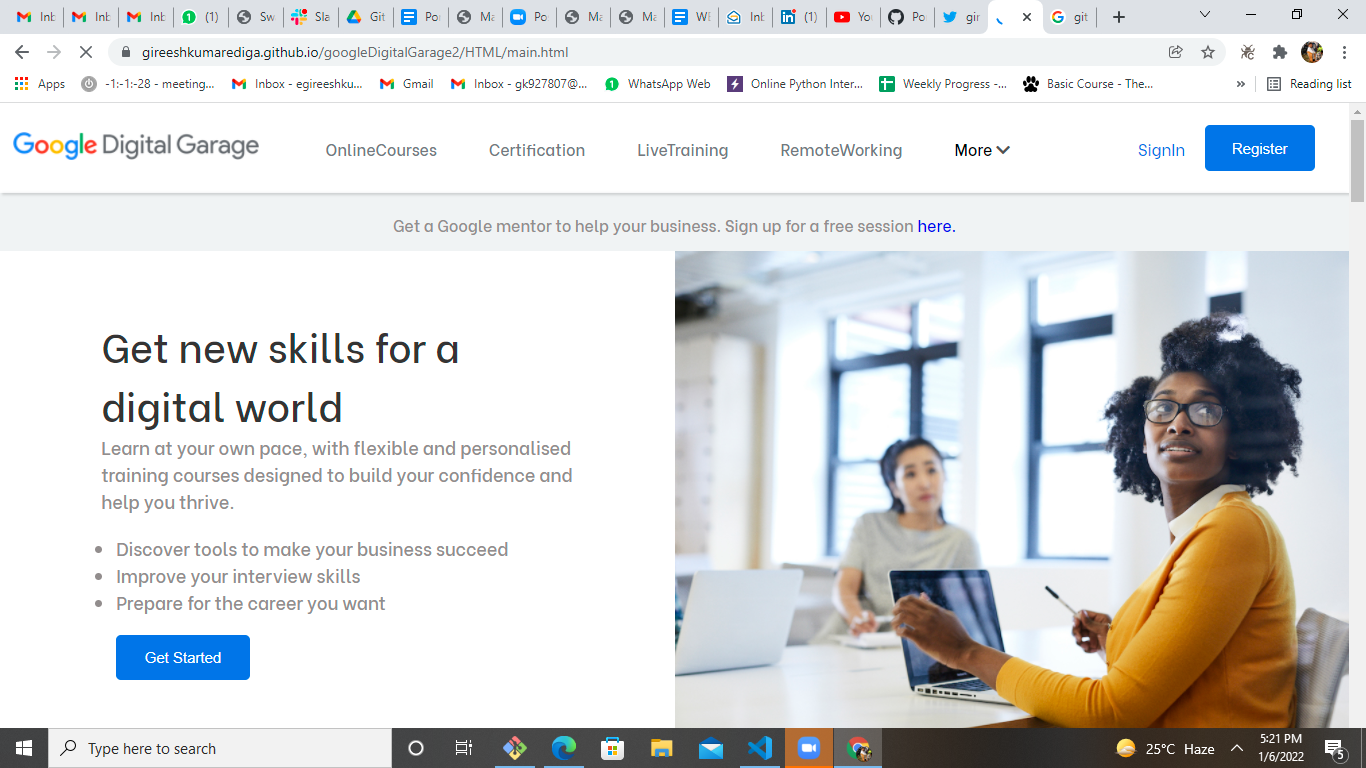
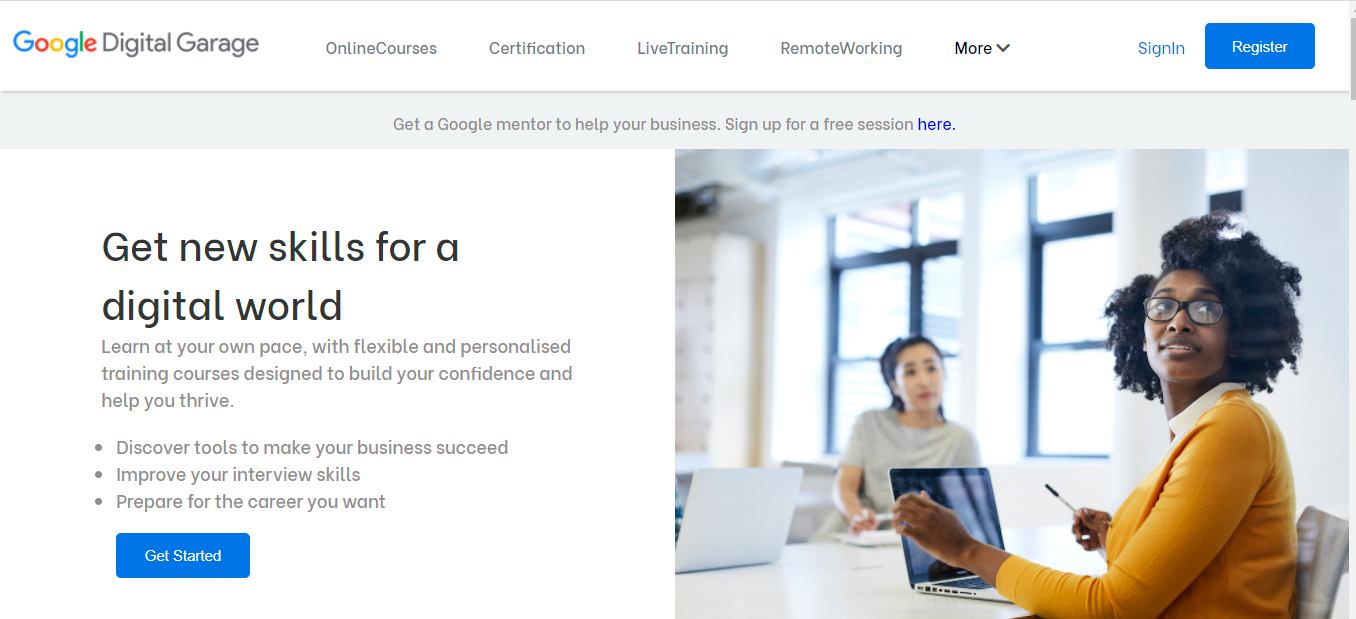
code added

diff --git a/index.html b/index.html
@@ -30,7 +30,7 @@
 				<div class="container">
 					<div class="row">
 						<div class="col-4 col-5-large col-12-medium">
-							<span class="image fit"><img src="images/pic00.jpeg" alt="" /></span>
+							<span class="image fit"><img src="images/pic07.jpeg" alt="" /></span>
 			 			</div>
 						<div class="col-8 col-7-large col-12-medium">
 							<header id="kumar">
@@ -223,7 +223,7 @@
 								<h3><a href="#">Tanishq</a></h3>
 								<p>Online store to shop luxury jwelleries</p>
 								<div id="icon">
-									<a href="https://github.com/Upsehu/Tanishq" class="icon brands fa-github"><span class="label" target="_blank">Github</span></a>
+									<a href="https://github.com/Upsehu/Tanishq" class="icon brands fa-github" target="_blank"><span class="label">Github</span></a>
 									<a href="https://gireeshkumarediga.github.io/Tanishq/FINAL_OVERVIEW/TANISHQ_FINAL/" class="fas fa-link" target="_blank">link</a>
 								</div>
 							</article>
@@ -280,7 +280,7 @@
 								<li><a href="https://www.linkedin.com/in/gireeshkumar-ediga-4576521a5/" class="icon brands fa-linkedin-in" target="_blank"><span class="label">LinkedIn</span></a></li>
 								<!-- <li><a href="#" class="icon brands fa-tumblr"><span class="label">Tumblr</span></a></li> -->
 								<!-- <li><a href="edigagireeshkumar" class="icon brands fa-google-plus"><span class="label">Google+</span></a></li> -->
-								<li><a href="https://github.com/gireeshkumarEdiga" class="icon brands fa-github"><span class="label" target="_blank">Github</span></a></li>
+								<li><a href="https://github.com/gireeshkumarEdiga" class="icon brands fa-github" target="_blank" ><span class="label">Github</span></a></li>
 								<!--
 								<li><a href="#" class="icon solid fa-rss"><span>RSS</span></a></li>
 								<li><a href="#" class="icon brands fa-instagram"><span>Instagram</span></a></li>
